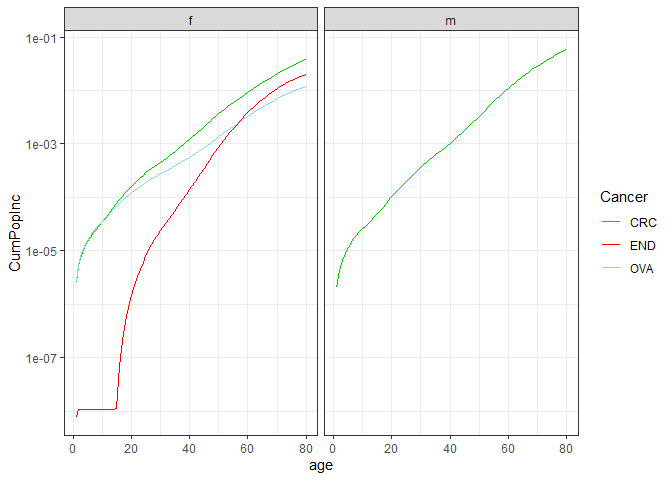
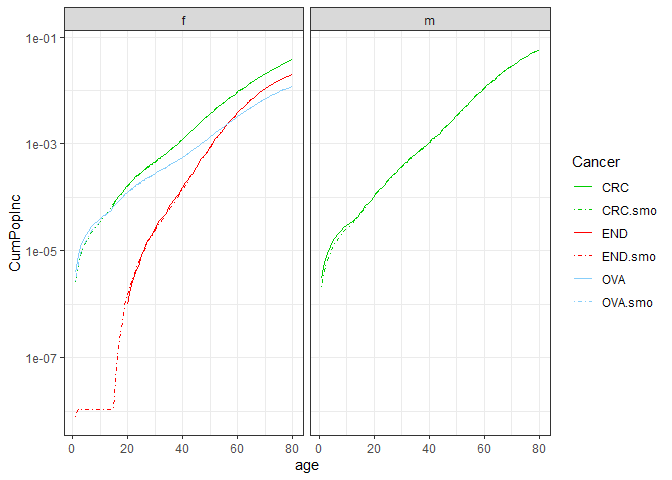
include the Ft_compute function

diff --git a/README.md b/README.md
@@ -129,65 +129,74 @@ CRCm <- c(0.3, 0.9, 1.7, 3.1, 4.9, 7.3, 12.7, 25.3, 49.8, 86.2, 136.6, 199.9, 26
 CRCf <- c(0.4, 1.7, 2.5, 3.2, 4.5, 8.3, 15.8, 27.3, 43.1, 62.8, 88.5, 121.8, 157.8, 200.9, 256.4, 315.5, 320.3, 257.5)
 
 # endometrium
-ENDm <- rep(0, 18)
 ENDf <- c(0, 0, 0.1, 0.3, 0.6, 1.4, 3.3, 8.2, 18.4, 33.4, 53.8, 77.6, 93.4, 92.6, 77.5, 57.2, 37.6, 23.2)
 
 ## ovary
-OVAm <- rep(0, 18)
 OVAf <- c(0.4, 1.1, 1.4, 1.6, 2.0, 3.1, 5.2, 8.8, 14.1, 20.8, 29.7, 40.6, 48.7, 51.2, 49.0, 43.9, 36.1, 27.4)
 ```
 
 Since `generisk` requires that incidence data are given by age (1:120)
-and sex. The following function transforms incidence data by age group
-and per 100,000 individuals into smoothed cumulative risks. Then, we
-create a list named `myFt` combining these cumulative risks representing
-the cancer risks in the French general population.
+and sex. The following code transforms incidence data by age group and
+per 100,000 individuals into smoothed cumulative risks. Then, we create
+a list named `myFt` combining these cumulative risks representing the
+cancer risks in the French general population.
 
 ``` r
-Ft.compute <- function(x, ft=NULL){
-  
-  if(is.null(ft)){
-    ft <- c(0,rep(x[1],14), rep(x[2:17],each = 5), rep(x[18],26))
-  }
-  ft.smo <- smooth.spline(ft, df=15)$y
-  
-  wiout <- which(ft.smo <= 0) 
-  ft.smo[wiout] <- ft[wiout]
-  
-  Ft <- numeric(121) 
-  for(t in (2:121)){  
-    Ft[t] = Ft[t-1] + (1 - Ft[t-1])*(ft.smo[t]/100000)
-  }
-  
-  names(Ft) <- as.character(0:120)
-  Ft["0"] <- 0
-  
-  return(Ft)
+
+rates_by1year_0to120 <- function(rates_byclasses){
+    out <- c(0, # rates at age = 0 is 0
+             rep(rates_byclasses[1],14), # ages = 1 to 14 
+             rep(rates_byclasses[2:17],each = 5), # 5-year age classes from 15 to 94
+             rep(rates_byclasses[18],26) # ages = 95 to 120  
+             )
+    return(out)
 }
 
-Ft.CRC <- cbind("m"=Ft.compute(CRCm), "f" = Ft.compute(CRCf))
-Ft.END <- cbind("m"=Ft.compute(ENDm), "f" = Ft.compute(ENDf))
-Ft.OVA <- cbind("m"=Ft.compute(OVAm), "f" = Ft.compute(OVAf))
+CRCm.rates <- rates_by1year_0to120(CRCm)
+CRCf.rates <- rates_by1year_0to120(CRCf)
+OVAf.rates <- rates_by1year_0to120(OVAf)
+ENDf.rates <- rates_by1year_0to120(ENDf)
+
+Ft.CRC.smo <- cbind("m"=Ft_compute(CRCm.rates), "f" = Ft_compute(CRCf.rates))
+Ft.END.smo <- cbind("m"=rep(0,121), "f" = Ft_compute(ENDf.rates))
+Ft.OVA.smo <- cbind("m"=rep(0,121), "f" = Ft_compute(OVAf.rates))
+
+Ft.CRC <- cbind("m"=Ft_compute(CRCm.rates, smo = FALSE), "f" = Ft_compute(CRCf.rates, smo = FALSE))
+Ft.END <- cbind("m"=rep(0,121), "f" = Ft_compute(ENDf.rates, smo = FALSE))
+Ft.OVA <- cbind("m"=rep(0,121), "f" = Ft_compute(OVAf.rates, smo = FALSE))
 
 ddinc <- tibble(age  = rep(1:80,2),
                 sexe = rep(c("f","m"), each = 80),
                 CRC = c(Ft.CRC[2:81,"f"],Ft.CRC[2:81,"m"]),
                 END = c(Ft.END[2:81,"f"],Ft.END[2:81,"m"]),
-                OVA = c(Ft.OVA[2:81,"f"],Ft.OVA[2:81,"m"])
+                OVA = c(Ft.OVA[2:81,"f"],Ft.OVA[2:81,"m"]),
+                CRC.smo = c(Ft.CRC.smo[2:81,"f"],Ft.CRC.smo[2:81,"m"]),
+                END.smo = c(Ft.END.smo[2:81,"f"],Ft.END.smo[2:81,"m"]),
+                OVA.smo = c(Ft.OVA.smo[2:81,"f"],Ft.OVA.smo[2:81,"m"])
                 )
 
 library(ggplot2)
 #> Warning: le package 'ggplot2' a été compilé avec la version R 4.2.3
 
 plotinc <- ddinc %>%
-  tidyr::gather(key = "Cancer", value = "CumPopInc", CRC, END, OVA) %>%
+  tidyr::gather(key = "Cancer", value = "CumPopInc", CRC, END, OVA, CRC.smo, END.smo, OVA.smo) %>%
   filter(CumPopInc>0) %>%
-  ggplot(aes(x = age, y = CumPopInc, color = Cancer)) +
+  ggplot(aes(x = age, y = CumPopInc, color = Cancer, linetype = Cancer)) +
   geom_line() +
   scale_y_continuous(trans = "log10")+
   scale_color_manual(values = c(OVA = "#87CEFA",
                                 END = "#FF0000",
-                                CRC = "#00CD00"
+                                CRC = "#00CD00",
+                                OVA.smo = "#87CEFA",
+                                END.smo = "#FF0000",
+                                CRC.smo = "#00CD00"
+                                ))+
+  scale_linetype_manual(values = c(OVA = 1,
+                                END = 1,
+                                CRC = 1,
+                                OVA.smo = 4,
+                                END.smo = 4,
+                                CRC.smo = 4
                                 ))+
   facet_wrap(vars(sexe)) +
   theme_bw()
@@ -200,7 +209,7 @@ plotinc
 ``` r
 
 
-myFt <- list("CCR" = Ft.CRC, "END" = Ft.END, "OVA" = Ft.OVA)
+myFt <- list("CCR" = Ft.CRC.smo, "END" = Ft.END.smo, "OVA" = Ft.OVA.smo)
 ```
 
 The next step is to define other parameters required by `generisk`. This
@@ -249,7 +258,7 @@ estim_NP <- generisk(Ft.pop = myFt,
 #>  ________________________________________
 #>                                          
 #>   The generisk R program 
-#>   version: 0.0.0.9000 
+#>   version: 0.1.0 
 #>                                         
 #>   Number of families:  236 
 #>    - CRC_event :  783 / 783  affected individuals will be analyzed 
@@ -384,7 +393,7 @@ estim_Weibull <- generisk(Ft.pop = myFt,
 #>  ________________________________________
 #>                                          
 #>   The generisk R program 
-#>   version: 0.0.0.9000 
+#>   version: 0.1.0 
 #>                                         
 #>   Number of families:  236 
 #>    - CRC_event :  783 / 783  affected individuals will be analyzed 
